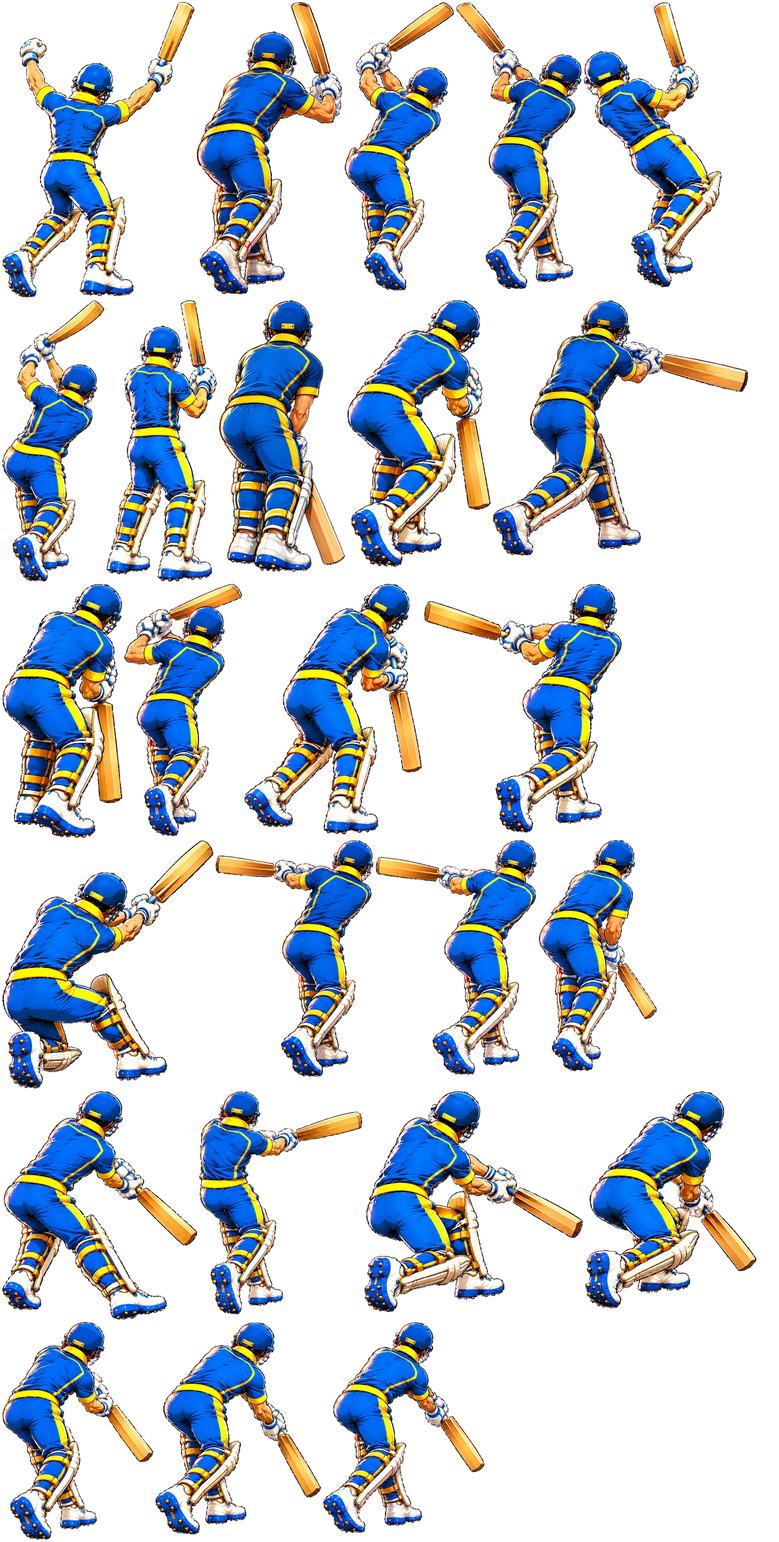
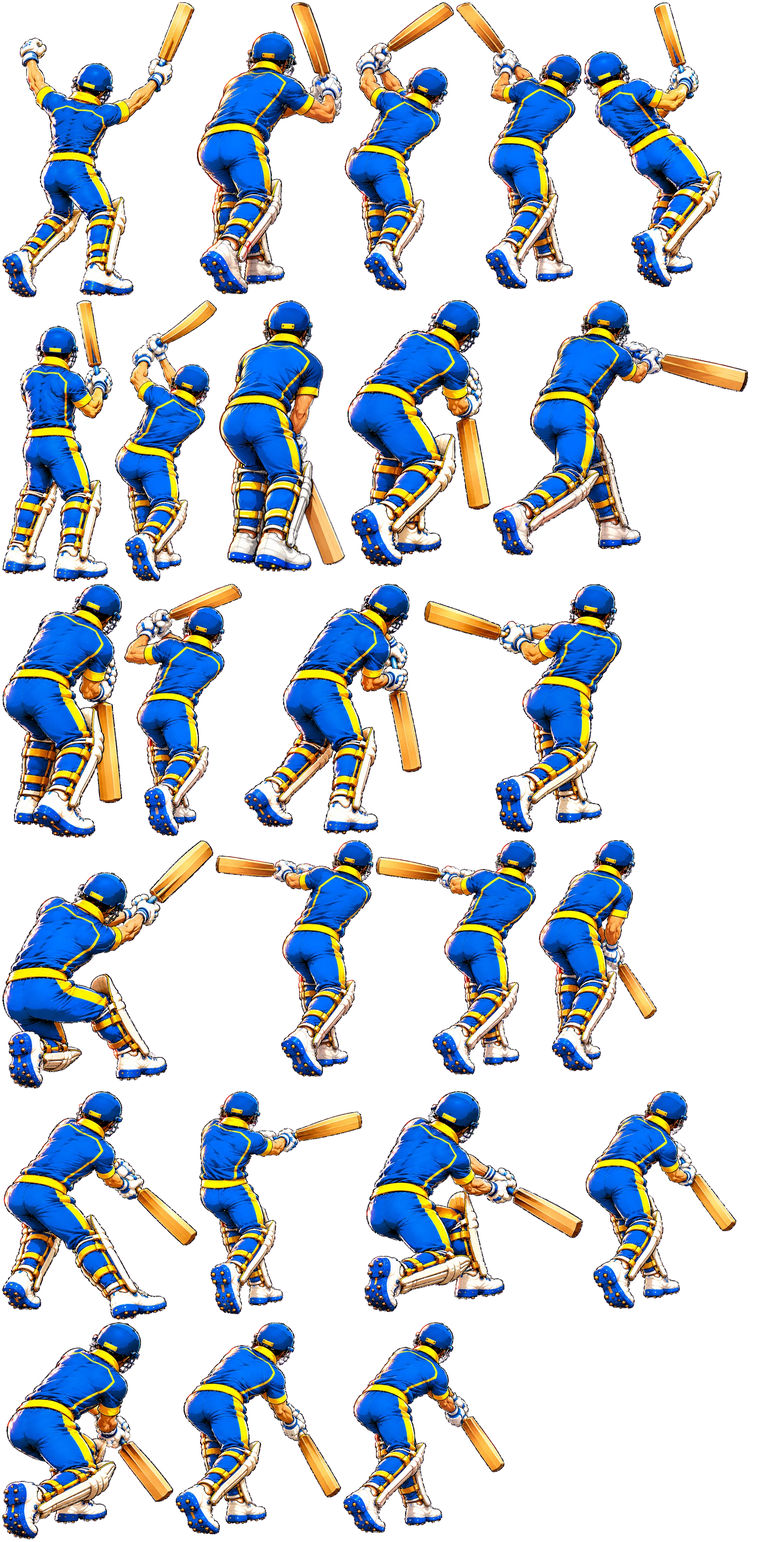
Batter: no automatic leave pose, one pose for a block, one colour depth in every painted frame
Leaving a ball keeps him in his stance (the automatic shoulder-arms pose is gone); a block is the single pose def1
(no 60/220 ms extra moves); tools/build_bat_paint.py brings the painted blue and yellow of every pose to the same hue, saturation
and value, as the sheets had drifted a little (value spread 4.6 % before, none after).

Claude-Session: https://claude.ai/code/session_01NK7tbrKg5PdA6fuyEUPXLd

diff --git a/js/kitsheets.js b/js/kitsheets.js
@@ -2,4 +2,4 @@
 // [x, y, w, h, feet x, feet y] in sheet order; place: the crest (front: [x, y, size, squash x,
 // squash y, tilt]) or the name-and-number print (back: [x, y, width, squash x, squash y, tilt,
 // name dx, dy, number dx, dy]) per frame; shading references for the repaint.
-export const KIT_SHEETS = {"front":{"frames":[[4,4,227,609,115.7,602],[235,4,204,603,108.5,596],[443,4,232,595,100.6,588],[679,4,181,601,90.4,594],[4,617,184,670,98.7,663],[192,617,204,657,107.8,650],[400,617,234,531,161.4,524],[638,617,200,532,104.9,525],[4,1291,201,557,90.7,550],[209,1291,216,579,105.9,572]],"place":[[153,167,36,1,1,0],[377,154,35,1,1,0],[591,154,35,1,1,0],[795,159,32,0.9,1,0],[142,863,31,0.95,1,5],[363,868,31,0.95,1,5],[549,761,34,1,0.85,0],[754,762,31,0.95,0.85,-5],[148,1439,35,1,1,0],[359,1454,36,1,1,0]],"refPx":580,"suit":[0.0376,0.2954,0.587],"trim":[0.5314,0.8456,0.9029],"skin":0.7306,"tones":[0.2955,0.2955,0.8423],"hair":{"beard_full":0.2269,"beard_goatee":0.1998,"beard_long":0.1906,"bun":0.2773,"buzz":0.2963,"cap":0.2815,"curly":0.2799,"dreads":0.2727,"long":0.2593,"messy":0.2999,"part":0.3383,"ponytail":0.2813,"spiky":0.2762},"size":[1024,1874]},"back":{"frames":[[4,4,223,593,111.2,586],[231,4,203,585,111.9,578],[438,4,226,585,125.1,578],[668,4,184,572,61.0,565],[4,601,172,628,61.9,621],[180,601,213,636,106.9,629],[397,601,240,538,146.8,531],[641,601,234,534,104.0,527],[4,1241,213,572,115.0,565],[221,1241,215,586,107.6,579]],"place":[[116.6,158.1,88.0,1.0,1.0,0.4,0,0,0,0],[343.2,149.0,88.0,1.0,1.0,0.8,0,0,0,0],[558.0,148.9,88.0,1.0,1.0,0.0,0,0,0,0],[738,149.2,84.5,0.88,1.0,2,-4,0,-2,0],[95.9,814.9,81.0,0.85,0.95,15.1,0,0,0,0],[306.5,801.6,81.0,0.85,0.95,10.9,0,0,0,0],[502,714.2,86.2,1.0,0.75,-6,0,0,0,0],[741,714.7,86.2,1.0,0.75,-6,0,0,0,0],[117.6,1385.2,88.0,1.0,1.0,0.4,0,0,0,0],[331.2,1393.8,89.8,1.0,1.0,0.8,0,0,0,0]],"refPx":563,"suit":[0.032,0.3087,0.5514],"trim":[0.5231,0.8489,0.9123],"skin":0.7332,"tones":[0.3087,0.3087,0.8455],"hair":{"bun":0.2553,"buzz":0.2918,"cap":0.2709,"curly":0.2702,"dreads":0.2718,"long":0.2647,"messy":0.2757,"part":0.2824,"ponytail":0.2667,"spiky":0.2812},"size":[1024,1831]},"spin-front":{"frames":[[4,4,182,471,90.8,464],[190,4,175,474,103.6,467],[369,4,172,473,91.2,466],[545,4,173,483,87.0,476],[722,4,165,515,62.2,508],[4,523,164,565,80.0,558],[172,523,152,564,71.3,544],[328,523,165,547,53.2,528],[497,523,255,478,85.7,461],[756,523,173,413,62.2,400],[4,1092,264,385,95.9,378],[272,1092,180,405,108.1,398],[456,1092,144,425,76.3,418],[604,1092,179,431,74.7,424],[787,1092,192,438,94.7,431]],"place":[[133,134,26,1,1,0],[324,133,24,1,1,0],[503,130,24,1,1,0],[663,127,24,1,1,0],[848,180,24,1,1,0],[145,711,22,0.9,1,0],[268,717,21,0.9,1,0],[456,715,21,0.9,1,0],[646,705,20,0.9,0.9,10],[872,632,20,0.9,0.85,0],[118,1191,19,0.9,0.85,0],[368,1192,21,1,0.9,0],[524,1199,22,1,0.95,0],[728,1206,26,1,1,0],[918,1204,26,1,1,0]],"refPx":441,"suit":[0.0299,0.3355,0.4715],"trim":[0.548,0.8593,0.9122],"skin":0.7273,"tones":[0.341,0.154,0.8608],"hair":{"beard_full":0.1972,"beard_goatee":0.2001,"beard_long":0.2064,"bun":0.2433,"buzz":0.241,"cap":0.2898,"curly":0.2653,"dreads":0.2535,"long":0.2468,"messy":0.2721,"part":0.2843,"ponytail":0.2781,"spiky":0.2609},"size":[1024,1534]},"spin-back":{"frames":[[4,4,205,533,100.3,526],[213,4,201,526,110.7,519],[418,4,214,510,122.2,503],[636,4,168,520,54.4,513],[808,4,157,568,64.3,561],[4,576,174,536,56.4,529],[182,576,168,528,67.2,521],[354,576,165,520,59.7,498],[523,576,204,489,64.8,467],[731,576,195,427,99.9,420],[4,1116,270,378,98.4,371],[278,1116,189,392,97.5,385],[471,1116,207,396,98.1,389],[682,1116,185,397,98.2,390],[4,1517,193,401,95.6,394]],"place":[[110,150,72.0,1,1,0,0,0,0,0],[326,138,72.0,1,1,0,0,0,0,0],[539,138,72.0,0.95,1,0,0,0,0,0],[711,141,72.0,0.95,1,11,0,0,0,0],[894,208,72.0,0.95,1,5,0,0,0,0],[100,760,72.0,0.95,1,10,0,0,0,0],[266,753,72.0,0.95,1,10,0,0,0,0],[451,742,72.0,0.95,0.95,18,0,0,0,0],[637,718,72.0,0.95,0.8,20,0,0,0,0],[853,677,72.0,0.95,0.8,12,0,0,0,0],[115,1188,72.0,1,0.7,-6,0,0,0,0],[362,1201,72.0,1,0.75,-10,0,0,0,0],[558,1210,72.0,1,0.85,-6,0,0,0,0],[773,1218,72.0,1,1,0,0,0,0,0],[104,1643,72.0,1,1,0,0,0,0,0]],"refPx":502,"suit":[0.0255,0.3304,0.4621],"trim":[0.5425,0.8472,0.9129],"skin":0.735,"tones":[0.3359,0.1507,0.8497],"hair":{"bun":0.2768,"buzz":0.2522,"cap":0.3009,"curly":0.2524,"dreads":0.3474,"long":0.2919,"messy":0.2526,"part":0.2321,"ponytail":0.2864,"spiky":0.2346},"size":[1024,1922]},"bat-back":{"frames":[[4,4,248,534,127.4,527],[256,4,291,536,114.4,529],[551,4,247,535,126.7,528],[802,4,283,538,117.1,531],[1089,4,237,534,113.5,527],[1330,4,310,635,102.2,628],[4,643,438,523,123.2,516],[446,643,394,523,242.9,516],[844,643,398,524,207.5,517],[1246,643,243,468,91.2,461],[1493,643,229,458,81.5,451],[1726,643,197,456,73.9,449],[4,1171,213,517,108.2,510],[221,1171,264,515,121.3,508],[489,1171,381,501,205.5,494],[874,1171,329,471,80.2,464],[1207,1171,201,510,95.2,503],[1412,1171,161,645,75.2,638],[1577,1171,302,505,119.4,498],[4,1820,340,405,92.8,398],[348,1820,373,419,82.2,412],[725,1820,235,523,91.4,516],[964,1820,195,665,107.2,658],[1163,1820,336,523,170.4,516],[1503,1820,388,542,201.0,535],[4,2489,364,523,108.1,516]],"place":[[110.5,145,87.2,1,1,16.3,0,0,0,0],[366.5,144,89.6,1,1,21.6,0,0,0,0],[660.0,146,86.4,1,1,17.1,0,0,0,0],[905.0,148,87.2,1,1,18.6,0,0,0,0],[1199.0,145,88.0,1,1,19.2,0,0,0,0],[1473.0,237,91.2,1,1,14.7,0,0,0,0],[157.0,762,93.6,1,1,3.2,0,0,0,0],[761.5,781,94.4,1,1,10.1,0,0,0,0],[1171.0,781,90.4,1,1,9.6,0,0,0,0],[1355.0,760,84.0,1,1,1.5,0,0,0,0],[1592.0,760,91.2,1,1,-0.9,0,0,0,0],[1815.0,767,96.0,1,1,3.4,0,0,0,0],[122.5,1293,85.6,1,1,16.8,0,0,0,0],[324.5,1303,96.8,1,1,4.1,0,0,0,0],[597.0,1301,95.2,1,1,8.8,0,0,0,0],[972.5,1302,96.0,1,1,7.3,0,0,0,0],[1324.5,1307,92.0,1,1,6.0,0,0,0,0],[1483.5,1450,92.0,1,1,1.6,0,0,0,0],[1760.5,1408,87.2,1,1,6.1,0,0,0,0],[114.0,1958,103.2,1,1,6.5,0,0,0,0],[504.5,1956,94.4,1,1,-0.9,0,0,0,0],[824.5,1941,94.4,1,1,7.8,0,0,0,0],[1083.5,2081,88.0,1,1,9.2,0,0,0,0],[1261.5,1955,98.4,1,1,11.6,0,0,0,0],[1822.0,1972,83.2,1,1,11.6,0,0,0,0],[88.0,2611,92.0,1,1,0.4,0,0,0,0]],"refPx":522,"suit":[0.0269,0.3529,0.5925],"trim":[0.5451,0.8592,0.9209],"skin":0.6414,"tones":[0.3586,0.2,0.8608],"hair":{},"size":[2048,3016]},"field":{"frames":[[4,4,425,453,214.6,446],[433,4,376,459,180.8,452],[813,4,407,455,200.5,448],[1224,4,294,543,132.5,536],[1522,4,266,555,119.8,548],[4,563,282,545,146.0,538],[290,563,323,540,153.3,533],[617,563,416,478,255.7,471],[1037,563,399,471,239.2,464],[1440,563,416,479,226.6,472],[4,1112,498,472,240.3,465],[506,1112,334,461,194.5,454],[844,1112,389,467,201.6,460],[1237,1112,290,468,134.9,461],[1531,1112,237,468,118.4,461],[4,1588,331,343,227.7,336],[339,1588,473,278,360.6,271],[816,1588,480,172,199.7,165],[1300,1588,337,172,238.3,165],[4,1935,444,498,209.6,491],[452,1935,293,588,174.3,581],[749,1935,424,503,212.8,496],[1177,1935,325,396,172.6,389],[1506,1935,354,418,177.7,411],[4,2527,358,410,163.6,403],[366,2527,433,269,300.7,262],[803,2527,313,384,165.7,377],[1120,2527,314,393,165.6,386],[1438,2527,418,382,217.0,375],[4,2941,455,291,300.0,284],[463,2941,279,574,142.6,567],[746,2941,283,525,142.6,518],[1033,2941,330,573,155.7,566],[1367,2941,288,573,148.0,566],[1659,2941,234,574,118.0,567],[4,3519,232,571,109.8,564],[240,3519,219,572,103.9,565],[463,3519,236,568,117.4,561],[703,3519,228,575,111.3,568],[935,3519,240,570,118.5,563],[1179,3519,238,570,119.8,563],[1421,3519,223,572,107.1,565]],"place":[[10,10,0,1,1,0,0,0,0,0],[439,10,0,1,1,0,0,0,0,0],[1017.0,139,100.8,1,1,1.9,0,0,0,0],[1394.5,134,101.6,1,1,22.4,0,0,0,0],[1652.0,138,104.0,1,1,11.0,0,0,0,0],[174.0,696,97.6,1,1,7.0,0,0,0,0],[458.5,691,98.4,1,1,11.3,0,0,0,0],[623,569,0,1,1,0,0,0,0,0],[1043,569,0,1,1,0,0,0,0,0],[1446,569,0,1,1,0,0,0,0,0],[10,1118,0,1,1,0,0,0,0,0],[512,1118,0,1,1,0,0,0,0,0],[850,1117,0,1,1,0,0,0,0,0],[1405.0,1231,90.4,1,1,15.0,0,0,0,0],[1673.0,1223,85.6,1,1,3.9,0,0,0,0],[10,1594,0,1,1,0,0,0,0,0],[345,1594,0,1,1,0,0,0,0,0],[822,1594,0,1,1,0,0,0,0,0],[1306,1594,0,1,1,0,0,0,0,0],[10,1941,0,1,1,0,0,0,0,0],[458,1941,0,1,1,0,0,0,0,0],[755,1941,0,1,1,0,0,0,0,0],[1183,1941,0,1,1,0,0,0,0,0],[1512,1941,0,1,1,0,0,0,0,0],[10,2533,0,1,1,0,0,0,0,0],[372,2533,0,1,1,0,0,0,0,0],[973.5,2643,76.8,1,1,1.8,0,0,0,0],[1296.5,2644,77.6,1,1,8.0,0,0,0,0],[1690.0,2629,61.6,1,1,16.7,0,0,0,0],[10,2947,0,1,1,0,0,0,0,0],[469,2947,0,1,1,0,0,0,0,0],[752,2947,0,1,1,0,0,0,0,0],[1039,2947,0,1,1,0,0,0,0,0],[1373,2947,0,1,1,0,0,0,0,0],[1665,2947,0,1,1,0,0,0,0,0],[10,3525,0,1,1,0,0,0,0,0],[246,3525,0,1,1,0,0,0,0,0],[469,3525,0,1,1,0,0,0,0,0],[709,3525,0,1,1,0,0,0,0,0],[941,3525,0,1,1,0,0,0,0,0],[1185,3525,0,1,1,0,0,0,0,0],[1427,3525,0,1,1,0,0,0,0,0]],"refPx":441,"suit":[0.0644,0.3368,0.6113],"trim":[0.5563,0.8516,0.9209],"skin":0.7707,"tones":[0.3422,0.2038,0.8539],"hair":{},"size":[2048,4098]},"bat-paint":{"frames":[[517,6,383,768,104.4,759.3],[1535,6,363,749,196.1,740.5],[280,789,290,740,166.7,731.6],[327,1535,309,663,110.5,655.4],[850,3476,423,554,93.0,547.5],[906,6,288,759,123.8,749.4],[6,3476,397,572,93.0,565.3],[6,789,268,740,87.6,731.6],[988,2209,423,617,231.8,608.8],[1200,6,329,754,180.4,745.5],[1417,2209,310,607,103.3,599.9],[567,2209,415,622,247.8,614.8],[1115,1535,519,654,269.9,645.5],[913,789,377,702,99.8,694.0],[6,1535,315,668,181.6,659.3],[642,1535,467,659,242.0,651.4],[6,2869,512,601,324.2,594.0],[409,3476,435,558,77.9,551.4],[1296,789,671,672,148.8,664.3],[524,2869,428,587,91.8,580.1],[1539,2869,450,572,56.9,565.3],[958,2869,575,581,50.2,573.2],[6,2209,555,654,126.1,644.5],[6,6,505,777,201.6,766.2],[576,789,331,714,169.3,705.9]],"place":[[692.0,261.0,69.1,1,1,1.8,0,0,0,0],[1653.5,297.5,52.6,1,1,-2.0,0,0,0,0],[419.0,1051.0,51.8,1,1,1.0,0,0,0,0],[487.5,1767.5,54.0,1,1,1.1,0,0,0,0],[1033.8,3611.0,56.5,1,1,3.7,0,0,0,0],[1060.5,337.5,51.1,1,1,1.6,0,0,0,0],[158.5,3620.0,58.3,1,1,2.3,0,0,0,0],[150.5,1118.0,49.7,1,1,1.1,0,0,0,0],[1309.5,2375.0,54.0,1,1,1.0,0,0,0,0],[1410.0,280.5,47.5,1,1,-0.8,0,0,0,0],[1572.5,2353.0,56.9,1,1,2.2,0,0,0,0],[879.0,2372.5,50.4,1,1,1.3,0,0,0,0],[1522.5,1719.0,62.6,1,1,-0.4,0,0,0,0],[1116.0,968.5,80.6,1,1,4.7,0,0,0,0],[186.0,1709.0,72.0,1,1,2.7,0,0,0,0],[921.8,1715.0,74.5,1,1,2.6,0,0,0,0],[199.0,3040.0,67.7,1,1,4.0,0,0,0,0],[598.0,3592.5,51.8,1,1,2.3,0,0,0,0],[1557.0,966.0,66.2,1,1,1.7,0,0,0,0],[609.0,3000.5,49.0,1,1,2.1,0,0,0,0],[1751.5,3035.0,75.6,1,1,3.4,0,0,0,0],[1123.0,3049.0,66.2,1,1,1.7,0,0,0,0],[174.5,2486.5,74.2,1,1,2.9,0,0,0,0],[210.0,316.5,56.2,1,1,2.4,0,0,0,0],[737.0,977.5,67.7,1,1,2.0,0,0,0,0]],"names":{"backlift":0,"leave1":1,"leave2":2,"drive1":3,"drive2":4,"drive3":5,"straight1":6,"straight2":7,"ondrive1":8,"ondrive2":9,"cover1":10,"pull1":11,"pull2":12,"def1":13,"def2":14,"def3":15,"cut1":16,"cut2":17,"cut3":18,"cut4":19,"rsweep1":20,"rsweep2":21,"rsweep3":22,"celebrate":23,"ready":24},"refPx":705.4,"suit":[0.0269,0.3529,0.5925],"trim":[0.5451,0.8592,0.9209],"skin":0.6653,"tones":[0.3115,0.15575,0.8537],"hair":{},"size":[2048,4054],"hsv":[[216.5187,0.9943,0.8583],[216.5187,0.9943,0.8583],[56.0011,0.988,0.9898]]}};
+export const KIT_SHEETS = {"front":{"frames":[[4,4,227,609,115.7,602],[235,4,204,603,108.5,596],[443,4,232,595,100.6,588],[679,4,181,601,90.4,594],[4,617,184,670,98.7,663],[192,617,204,657,107.8,650],[400,617,234,531,161.4,524],[638,617,200,532,104.9,525],[4,1291,201,557,90.7,550],[209,1291,216,579,105.9,572]],"place":[[153,167,36,1,1,0],[377,154,35,1,1,0],[591,154,35,1,1,0],[795,159,32,0.9,1,0],[142,863,31,0.95,1,5],[363,868,31,0.95,1,5],[549,761,34,1,0.85,0],[754,762,31,0.95,0.85,-5],[148,1439,35,1,1,0],[359,1454,36,1,1,0]],"refPx":580,"suit":[0.0376,0.2954,0.587],"trim":[0.5314,0.8456,0.9029],"skin":0.7306,"tones":[0.2955,0.2955,0.8423],"hair":{"beard_full":0.2269,"beard_goatee":0.1998,"beard_long":0.1906,"bun":0.2773,"buzz":0.2963,"cap":0.2815,"curly":0.2799,"dreads":0.2727,"long":0.2593,"messy":0.2999,"part":0.3383,"ponytail":0.2813,"spiky":0.2762},"size":[1024,1874]},"back":{"frames":[[4,4,223,593,111.2,586],[231,4,203,585,111.9,578],[438,4,226,585,125.1,578],[668,4,184,572,61.0,565],[4,601,172,628,61.9,621],[180,601,213,636,106.9,629],[397,601,240,538,146.8,531],[641,601,234,534,104.0,527],[4,1241,213,572,115.0,565],[221,1241,215,586,107.6,579]],"place":[[116.6,158.1,88.0,1.0,1.0,0.4,0,0,0,0],[343.2,149.0,88.0,1.0,1.0,0.8,0,0,0,0],[558.0,148.9,88.0,1.0,1.0,0.0,0,0,0,0],[738,149.2,84.5,0.88,1.0,2,-4,0,-2,0],[95.9,814.9,81.0,0.85,0.95,15.1,0,0,0,0],[306.5,801.6,81.0,0.85,0.95,10.9,0,0,0,0],[502,714.2,86.2,1.0,0.75,-6,0,0,0,0],[741,714.7,86.2,1.0,0.75,-6,0,0,0,0],[117.6,1385.2,88.0,1.0,1.0,0.4,0,0,0,0],[331.2,1393.8,89.8,1.0,1.0,0.8,0,0,0,0]],"refPx":563,"suit":[0.032,0.3087,0.5514],"trim":[0.5231,0.8489,0.9123],"skin":0.7332,"tones":[0.3087,0.3087,0.8455],"hair":{"bun":0.2553,"buzz":0.2918,"cap":0.2709,"curly":0.2702,"dreads":0.2718,"long":0.2647,"messy":0.2757,"part":0.2824,"ponytail":0.2667,"spiky":0.2812},"size":[1024,1831]},"spin-front":{"frames":[[4,4,182,471,90.8,464],[190,4,175,474,103.6,467],[369,4,172,473,91.2,466],[545,4,173,483,87.0,476],[722,4,165,515,62.2,508],[4,523,164,565,80.0,558],[172,523,152,564,71.3,544],[328,523,165,547,53.2,528],[497,523,255,478,85.7,461],[756,523,173,413,62.2,400],[4,1092,264,385,95.9,378],[272,1092,180,405,108.1,398],[456,1092,144,425,76.3,418],[604,1092,179,431,74.7,424],[787,1092,192,438,94.7,431]],"place":[[133,134,26,1,1,0],[324,133,24,1,1,0],[503,130,24,1,1,0],[663,127,24,1,1,0],[848,180,24,1,1,0],[145,711,22,0.9,1,0],[268,717,21,0.9,1,0],[456,715,21,0.9,1,0],[646,705,20,0.9,0.9,10],[872,632,20,0.9,0.85,0],[118,1191,19,0.9,0.85,0],[368,1192,21,1,0.9,0],[524,1199,22,1,0.95,0],[728,1206,26,1,1,0],[918,1204,26,1,1,0]],"refPx":441,"suit":[0.0299,0.3355,0.4715],"trim":[0.548,0.8593,0.9122],"skin":0.7273,"tones":[0.341,0.154,0.8608],"hair":{"beard_full":0.1972,"beard_goatee":0.2001,"beard_long":0.2064,"bun":0.2433,"buzz":0.241,"cap":0.2898,"curly":0.2653,"dreads":0.2535,"long":0.2468,"messy":0.2721,"part":0.2843,"ponytail":0.2781,"spiky":0.2609},"size":[1024,1534]},"spin-back":{"frames":[[4,4,205,533,100.3,526],[213,4,201,526,110.7,519],[418,4,214,510,122.2,503],[636,4,168,520,54.4,513],[808,4,157,568,64.3,561],[4,576,174,536,56.4,529],[182,576,168,528,67.2,521],[354,576,165,520,59.7,498],[523,576,204,489,64.8,467],[731,576,195,427,99.9,420],[4,1116,270,378,98.4,371],[278,1116,189,392,97.5,385],[471,1116,207,396,98.1,389],[682,1116,185,397,98.2,390],[4,1517,193,401,95.6,394]],"place":[[110,150,72.0,1,1,0,0,0,0,0],[326,138,72.0,1,1,0,0,0,0,0],[539,138,72.0,0.95,1,0,0,0,0,0],[711,141,72.0,0.95,1,11,0,0,0,0],[894,208,72.0,0.95,1,5,0,0,0,0],[100,760,72.0,0.95,1,10,0,0,0,0],[266,753,72.0,0.95,1,10,0,0,0,0],[451,742,72.0,0.95,0.95,18,0,0,0,0],[637,718,72.0,0.95,0.8,20,0,0,0,0],[853,677,72.0,0.95,0.8,12,0,0,0,0],[115,1188,72.0,1,0.7,-6,0,0,0,0],[362,1201,72.0,1,0.75,-10,0,0,0,0],[558,1210,72.0,1,0.85,-6,0,0,0,0],[773,1218,72.0,1,1,0,0,0,0,0],[104,1643,72.0,1,1,0,0,0,0,0]],"refPx":502,"suit":[0.0255,0.3304,0.4621],"trim":[0.5425,0.8472,0.9129],"skin":0.735,"tones":[0.3359,0.1507,0.8497],"hair":{"bun":0.2768,"buzz":0.2522,"cap":0.3009,"curly":0.2524,"dreads":0.3474,"long":0.2919,"messy":0.2526,"part":0.2321,"ponytail":0.2864,"spiky":0.2346},"size":[1024,1922]},"bat-back":{"frames":[[4,4,248,534,127.4,527],[256,4,291,536,114.4,529],[551,4,247,535,126.7,528],[802,4,283,538,117.1,531],[1089,4,237,534,113.5,527],[1330,4,310,635,102.2,628],[4,643,438,523,123.2,516],[446,643,394,523,242.9,516],[844,643,398,524,207.5,517],[1246,643,243,468,91.2,461],[1493,643,229,458,81.5,451],[1726,643,197,456,73.9,449],[4,1171,213,517,108.2,510],[221,1171,264,515,121.3,508],[489,1171,381,501,205.5,494],[874,1171,329,471,80.2,464],[1207,1171,201,510,95.2,503],[1412,1171,161,645,75.2,638],[1577,1171,302,505,119.4,498],[4,1820,340,405,92.8,398],[348,1820,373,419,82.2,412],[725,1820,235,523,91.4,516],[964,1820,195,665,107.2,658],[1163,1820,336,523,170.4,516],[1503,1820,388,542,201.0,535],[4,2489,364,523,108.1,516]],"place":[[110.5,145,87.2,1,1,16.3,0,0,0,0],[366.5,144,89.6,1,1,21.6,0,0,0,0],[660.0,146,86.4,1,1,17.1,0,0,0,0],[905.0,148,87.2,1,1,18.6,0,0,0,0],[1199.0,145,88.0,1,1,19.2,0,0,0,0],[1473.0,237,91.2,1,1,14.7,0,0,0,0],[157.0,762,93.6,1,1,3.2,0,0,0,0],[761.5,781,94.4,1,1,10.1,0,0,0,0],[1171.0,781,90.4,1,1,9.6,0,0,0,0],[1355.0,760,84.0,1,1,1.5,0,0,0,0],[1592.0,760,91.2,1,1,-0.9,0,0,0,0],[1815.0,767,96.0,1,1,3.4,0,0,0,0],[122.5,1293,85.6,1,1,16.8,0,0,0,0],[324.5,1303,96.8,1,1,4.1,0,0,0,0],[597.0,1301,95.2,1,1,8.8,0,0,0,0],[972.5,1302,96.0,1,1,7.3,0,0,0,0],[1324.5,1307,92.0,1,1,6.0,0,0,0,0],[1483.5,1450,92.0,1,1,1.6,0,0,0,0],[1760.5,1408,87.2,1,1,6.1,0,0,0,0],[114.0,1958,103.2,1,1,6.5,0,0,0,0],[504.5,1956,94.4,1,1,-0.9,0,0,0,0],[824.5,1941,94.4,1,1,7.8,0,0,0,0],[1083.5,2081,88.0,1,1,9.2,0,0,0,0],[1261.5,1955,98.4,1,1,11.6,0,0,0,0],[1822.0,1972,83.2,1,1,11.6,0,0,0,0],[88.0,2611,92.0,1,1,0.4,0,0,0,0]],"refPx":522,"suit":[0.0269,0.3529,0.5925],"trim":[0.5451,0.8592,0.9209],"skin":0.6414,"tones":[0.3586,0.2,0.8608],"hair":{},"size":[2048,3016]},"field":{"frames":[[4,4,425,453,214.6,446],[433,4,376,459,180.8,452],[813,4,407,455,200.5,448],[1224,4,294,543,132.5,536],[1522,4,266,555,119.8,548],[4,563,282,545,146.0,538],[290,563,323,540,153.3,533],[617,563,416,478,255.7,471],[1037,563,399,471,239.2,464],[1440,563,416,479,226.6,472],[4,1112,498,472,240.3,465],[506,1112,334,461,194.5,454],[844,1112,389,467,201.6,460],[1237,1112,290,468,134.9,461],[1531,1112,237,468,118.4,461],[4,1588,331,343,227.7,336],[339,1588,473,278,360.6,271],[816,1588,480,172,199.7,165],[1300,1588,337,172,238.3,165],[4,1935,444,498,209.6,491],[452,1935,293,588,174.3,581],[749,1935,424,503,212.8,496],[1177,1935,325,396,172.6,389],[1506,1935,354,418,177.7,411],[4,2527,358,410,163.6,403],[366,2527,433,269,300.7,262],[803,2527,313,384,165.7,377],[1120,2527,314,393,165.6,386],[1438,2527,418,382,217.0,375],[4,2941,455,291,300.0,284],[463,2941,279,574,142.6,567],[746,2941,283,525,142.6,518],[1033,2941,330,573,155.7,566],[1367,2941,288,573,148.0,566],[1659,2941,234,574,118.0,567],[4,3519,232,571,109.8,564],[240,3519,219,572,103.9,565],[463,3519,236,568,117.4,561],[703,3519,228,575,111.3,568],[935,3519,240,570,118.5,563],[1179,3519,238,570,119.8,563],[1421,3519,223,572,107.1,565]],"place":[[10,10,0,1,1,0,0,0,0,0],[439,10,0,1,1,0,0,0,0,0],[1017.0,139,100.8,1,1,1.9,0,0,0,0],[1394.5,134,101.6,1,1,22.4,0,0,0,0],[1652.0,138,104.0,1,1,11.0,0,0,0,0],[174.0,696,97.6,1,1,7.0,0,0,0,0],[458.5,691,98.4,1,1,11.3,0,0,0,0],[623,569,0,1,1,0,0,0,0,0],[1043,569,0,1,1,0,0,0,0,0],[1446,569,0,1,1,0,0,0,0,0],[10,1118,0,1,1,0,0,0,0,0],[512,1118,0,1,1,0,0,0,0,0],[850,1117,0,1,1,0,0,0,0,0],[1405.0,1231,90.4,1,1,15.0,0,0,0,0],[1673.0,1223,85.6,1,1,3.9,0,0,0,0],[10,1594,0,1,1,0,0,0,0,0],[345,1594,0,1,1,0,0,0,0,0],[822,1594,0,1,1,0,0,0,0,0],[1306,1594,0,1,1,0,0,0,0,0],[10,1941,0,1,1,0,0,0,0,0],[458,1941,0,1,1,0,0,0,0,0],[755,1941,0,1,1,0,0,0,0,0],[1183,1941,0,1,1,0,0,0,0,0],[1512,1941,0,1,1,0,0,0,0,0],[10,2533,0,1,1,0,0,0,0,0],[372,2533,0,1,1,0,0,0,0,0],[973.5,2643,76.8,1,1,1.8,0,0,0,0],[1296.5,2644,77.6,1,1,8.0,0,0,0,0],[1690.0,2629,61.6,1,1,16.7,0,0,0,0],[10,2947,0,1,1,0,0,0,0,0],[469,2947,0,1,1,0,0,0,0,0],[752,2947,0,1,1,0,0,0,0,0],[1039,2947,0,1,1,0,0,0,0,0],[1373,2947,0,1,1,0,0,0,0,0],[1665,2947,0,1,1,0,0,0,0,0],[10,3525,0,1,1,0,0,0,0,0],[246,3525,0,1,1,0,0,0,0,0],[469,3525,0,1,1,0,0,0,0,0],[709,3525,0,1,1,0,0,0,0,0],[941,3525,0,1,1,0,0,0,0,0],[1185,3525,0,1,1,0,0,0,0,0],[1427,3525,0,1,1,0,0,0,0,0]],"refPx":441,"suit":[0.0644,0.3368,0.6113],"trim":[0.5563,0.8516,0.9209],"skin":0.7707,"tones":[0.3422,0.2038,0.8539],"hair":{},"size":[2048,4098]},"bat-paint":{"frames":[[517,6,383,768,104.4,759.3],[1535,6,363,749,196.1,740.5],[6,789,290,740,166.7,731.6],[327,1535,309,663,110.5,655.4],[903,3476,423,554,93.0,547.5],[906,6,288,759,123.8,749.4],[1539,2869,397,572,93.0,565.3],[302,789,268,740,87.6,731.6],[988,2209,423,617,231.8,608.8],[1200,6,329,754,180.4,745.5],[1417,2209,310,607,103.3,599.9],[567,2209,415,622,247.8,614.8],[1115,1535,519,654,269.9,645.5],[913,789,377,702,99.8,694.0],[6,1535,315,668,181.6,659.3],[642,1535,467,659,242.0,651.4],[6,2869,512,601,324.2,594.0],[462,3476,435,558,77.9,551.4],[1296,789,671,672,148.8,664.3],[524,2869,428,587,91.8,580.1],[6,3476,450,572,56.9,565.3],[958,2869,575,581,50.2,573.2],[6,2209,555,654,126.1,644.5],[6,6,505,777,201.6,766.2],[576,789,331,714,169.3,705.9]],"place":[[692.0,261.0,69.1,1,1,1.8,0,0,0,0],[1653.5,297.0,52.6,1,1,-2.0,0,0,0,0],[145.0,1051.0,51.8,1,1,1.0,0,0,0,0],[487.5,1767.5,54.0,1,1,1.2,0,0,0,0],[1087.0,3611.0,56.2,1,1,3.7,0,0,0,0],[1060.5,337.5,51.1,1,1,1.6,0,0,0,0],[1691.5,3013.0,58.3,1,1,2.3,0,0,0,0],[446.5,1118.0,49.7,1,1,1.1,0,0,0,0],[1309.5,2375.0,54.0,1,1,1.0,0,0,0,0],[1409.5,280.5,46.8,1,1,-1.0,0,0,0,0],[1572.5,2353.0,56.9,1,1,2.2,0,0,0,0],[879.0,2372.5,50.4,1,1,1.3,0,0,0,0],[1522.5,1718.5,62.6,1,1,-0.4,0,0,0,0],[1116.0,968.5,80.6,1,1,4.7,0,0,0,0],[186.0,1709.0,72.0,1,1,2.7,0,0,0,0],[922.0,1715.0,74.9,1,1,2.5,0,0,0,0],[198.5,3040.0,68.4,1,1,4.0,0,0,0,0],[651.0,3592.5,51.8,1,1,2.3,0,0,0,0],[1557.0,966.0,66.2,1,1,1.7,0,0,0,0],[609.0,3000.5,49.0,1,1,2.1,0,0,0,0],[218.5,3642.0,75.6,1,1,3.5,0,0,0,0],[1123.0,3049.0,66.2,1,1,1.7,0,0,0,0],[174.5,2486.0,74.2,1,1,3.0,0,0,0,0],[210.0,316.5,56.2,1,1,2.4,0,0,0,0],[737.0,977.5,67.7,1,1,1.9,0,0,0,0]],"names":{"backlift":0,"leave1":1,"leave2":2,"drive1":3,"drive2":4,"drive3":5,"straight1":6,"straight2":7,"ondrive1":8,"ondrive2":9,"cover1":10,"pull1":11,"pull2":12,"def1":13,"def2":14,"def3":15,"cut1":16,"cut2":17,"cut3":18,"cut4":19,"rsweep1":20,"rsweep2":21,"rsweep3":22,"celebrate":23,"ready":24},"refPx":705.4,"suit":[0.0269,0.3529,0.5925],"trim":[0.5451,0.8592,0.9209],"skin":0.6653,"tones":[0.3183,0.15915,0.8514],"hair":{},"size":[2048,4054],"hsv":[[216.5858,0.9949,0.8784],[216.5858,0.9949,0.8784],[56.0785,0.9882,0.9882]]}};

diff --git a/js/game.js b/js/game.js
@@ -949,8 +949,7 @@ export class Game {
     await this.until(() => {
       const tb = this.gameTime - S.ballT0;
       if (fx.meteor && tb > d.tContact - 0.45) { this.timeScale = 0.35; this.fx.speed = 1; }
-      // no shot offered: shoulder arms as the ball arrives
-      if (!fx.meteor && !swing && !S.batter.shot && S.batter.angle > -2 && tb > d.tContact - 0.12) S.batter.shot = { anim: 'leave', t0: this.realTime, from: 'ready' };
+      // (no shot offered: he stays as he is, there is no pose of its own for leaving the ball)
       if (S.maya && this.bot && !S.maya.picked && tb > (d.bounceT ?? 0.3)) S.maya.picked = rng.chance(0.6) ? S.maya.real : -S.maya.real;
       return fx.meteor ? tap || tb > d.tContact + 0.25 : swing || tb > deadline;
     });

diff --git a/js/batsprite.js b/js/batsprite.js
@@ -44,7 +44,7 @@ const SEQ = {
   pull: [['pull1', 150], ['pull2', Infinity]], // swung across to leg, through
   cut: [['cut1', 25], ['cut2', 30], ['cut3', 100], ['cut4', Infinity]],
   rsweep: [['rsweep1', 60], ['rsweep2', 130], ['rsweep3', Infinity]], // down on one knee, swept fine on the off side
-  block: [['def1', 60], ['def2', 220], ['def3', Infinity]],
+  block: [['def1', Infinity]],   // (one pose: the bat grounded in front of him, no extra move)
   leave: [['leave1', 170], ['leave2', Infinity]],
   bowled: [['bowled', Infinity]], // beaten: looking back at the stumps
 };

diff --git a/tools/build_bat_paint.py b/tools/build_bat_paint.py
@@ -121,6 +121,35 @@ def classify(rgb, al, rect=None):
     return dict(zone=(c0, top), collar=collar and collar['bx'], belt=belt and belt['bx'], kit=kit, blue=blue, yellow=yellow, skin=skin, shirt=shirt, wy=wy, lum=lum, hue=hue, sat=sat, mx=mx, info=info)
 
 
+def hsv_to_rgb(h, s, v):
+    h = (h % 360) / 60; c = v * s; x = c * (1 - np.abs(h % 2 - 1)); m = v - c; i = np.floor(h).astype(int) % 6
+    r = np.choose(i, [c, x, 0 * c, 0 * c, x, c]); g = np.choose(i, [x, c, c, x, 0 * c, 0 * c]); b = np.choose(i, [0 * c, 0 * c, x, c, c, x])
+    return np.stack([r + m, g + m, b + m], -1) * 255
+
+
+def circ_mean(h):
+    a = np.deg2rad(h); return float(np.rad2deg(np.arctan2(np.sin(a).mean(), np.cos(a).mean())) % 360)
+
+
+def stats(rgb, c):
+    out = {}
+    for k in ('blue', 'yellow'):
+        m = c[k]
+        if m.sum() > 200: out[k] = (circ_mean(c['hue'][m]), float(np.median(c['sat'][m])), float(np.median(c['mx'][m])) / 255)
+    return out
+
+
+def level(rgb, al, c, ref):
+    # the painted blue and yellow of this pose brought to the colour depth of the whole set (the sheets were painted one after another and drift a little)
+    st = stats(rgb, c); out = rgb.copy()
+    for k in ('blue', 'yellow'):
+        if k not in st: continue
+        h0, s0, v0 = st[k]; hr, sr, vr = ref[k]; m = c[k]
+        hue, sat, mx = c['hue'][m], c['sat'][m], c['mx'][m] / 255
+        out[m] = hsv_to_rgb(hue + (hr - h0), np.clip(sat * sr / max(s0, 0.05), 0, 1), np.clip(mx * vr / max(v0, 0.05), 0, 1))
+    return out
+
+
 def main():
     pieces = {}   # (src, k) -> (rgb, alpha)
     for src in sorted({s for s, _ in FRAMES.values()}):
@@ -141,6 +170,16 @@ def main():
     meta_frames, place, names, lums = {}, {}, {}, {'blue': [], 'yellow': [], 'skin': []}
     hsv_s = {'blue': [], 'yellow': []}
     info = {}
+    # first the colour depth of every pose, then each pose brought to the median of them all
+    pre = {}
+    for p in uniq: pre[p] = stats(pieces[p][0], classify(*pieces[p]))
+    ref = {k: (circ_mean(np.array([v[k][0] for v in pre.values() if k in v])), float(np.median([v[k][1] for v in pre.values() if k in v])), float(np.median([v[k][2] for v in pre.values() if k in v]))) for k in ('blue', 'yellow')}
+    spread = lambda k, i: round(float(np.std([v[k][i] for v in pre.values() if k in v])), 3)
+    print('colour spread before (blue hue, sat, value):', spread('blue', 0), spread('blue', 1), spread('blue', 2))
+    for p in uniq:
+        rgb0, al0 = pieces[p]; pieces[p] = (level(rgb0, al0, classify(rgb0, al0), ref), al0)
+    post = {p: stats(pieces[p][0], classify(*pieces[p])) for p in uniq}
+    print('colour spread after:', round(float(np.std([v['blue'][0] for v in post.values()])), 3), round(float(np.std([v['blue'][1] for v in post.values()])), 3), round(float(np.std([v['blue'][2] for v in post.values()])), 3))
     for p in uniq:
         rgb, al = pieces[p]; h, w = al.shape; px, py = pos[p]
         c = classify(rgb, al, next((SHIRT_AT[n] for n, q in frames.items() if q == p and n in SHIRT_AT), None)); info[p] = c['info']
